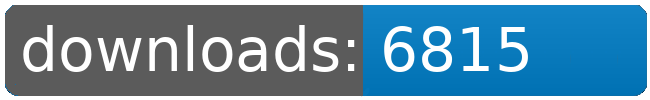
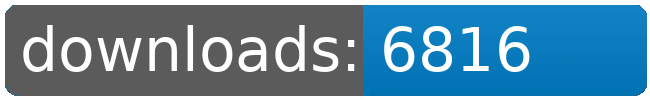
dl log written

Changed region(s): [[0.7692, 0.24, 0.8308, 0.72]]

diff --git a/README.md b/README.md
@@ -54,8 +54,8 @@
 		<td>6779</td>
 		<td>6799</td>
 		<td>6806</td>
-		<td>6815</td>
-		<td>+ 9</td>
+		<td>6816</td>
+		<td>+ 10</td>
 	</tr>
 	<tr>
 		<td>Korunak.Defense.Drones</td>
@@ -120,8 +120,8 @@
 		<td></td>
 		<td></td>
 		<td></td>
-		<td>58500</td>
-		<td>73</td>
+		<td>58501</td>
+		<td>74</td>
 	</tr>
 </table>
 </sub></sup>
@@ -212,8 +212,8 @@
 		<td>6779</td>
 		<td>6799</td>
 		<td>6806</td>
-		<td>6815</td>
-		<td>+ 9</td>
+		<td>6816</td>
+		<td>+ 10</td>
 	</tr>
 	<tr>
 		<td>Zone.of.Control</td>
@@ -245,8 +245,8 @@
 		<td></td>
 		<td></td>
 		<td></td>
-		<td>58500</td>
-		<td>73</td>
+		<td>58501</td>
+		<td>74</td>
 	</tr>
 </table>
 </sub></sup>
